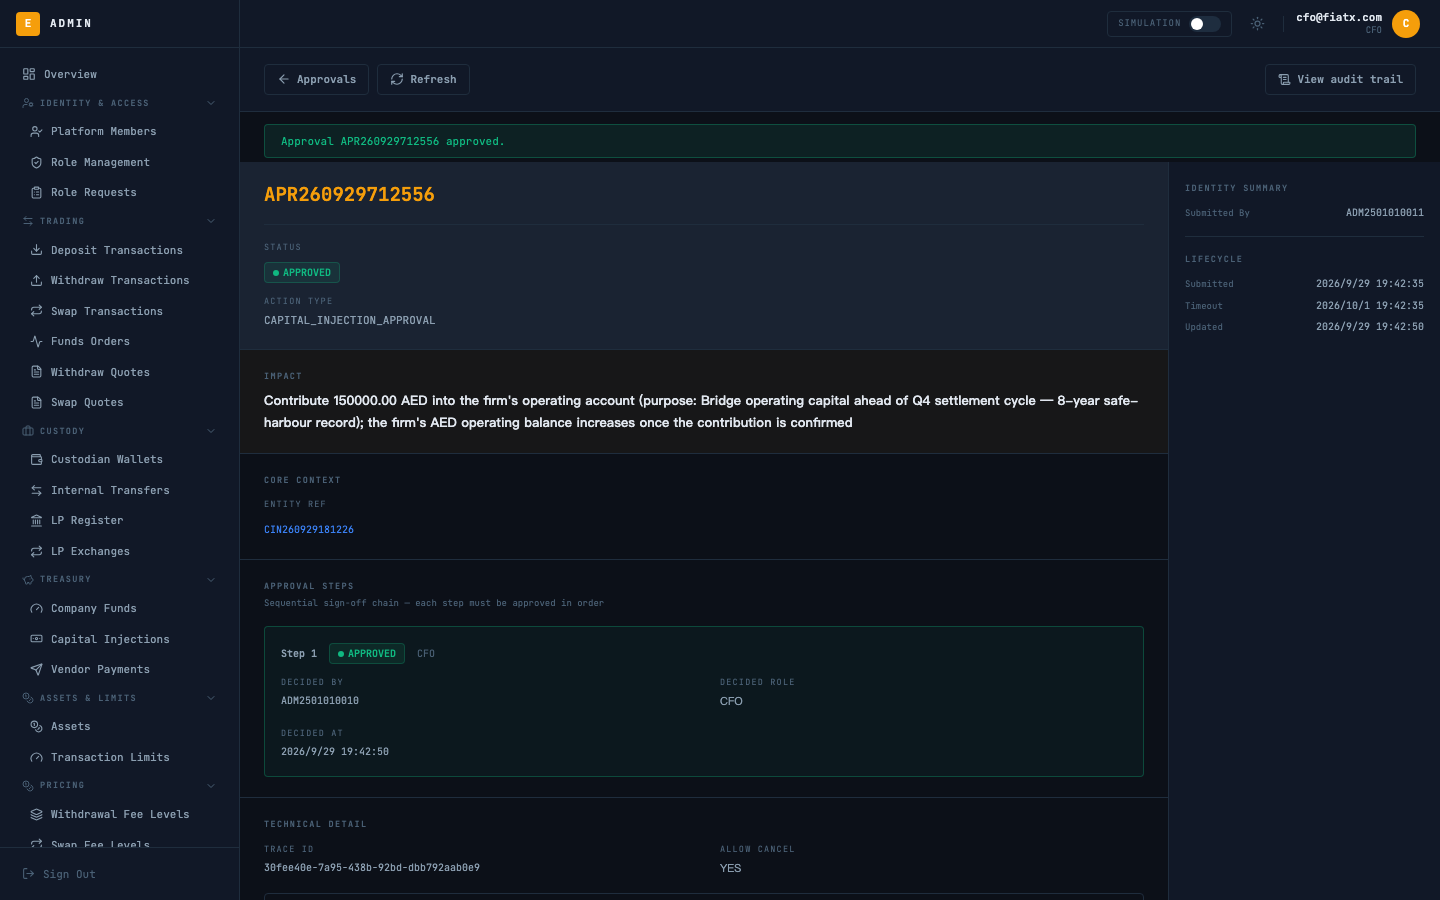
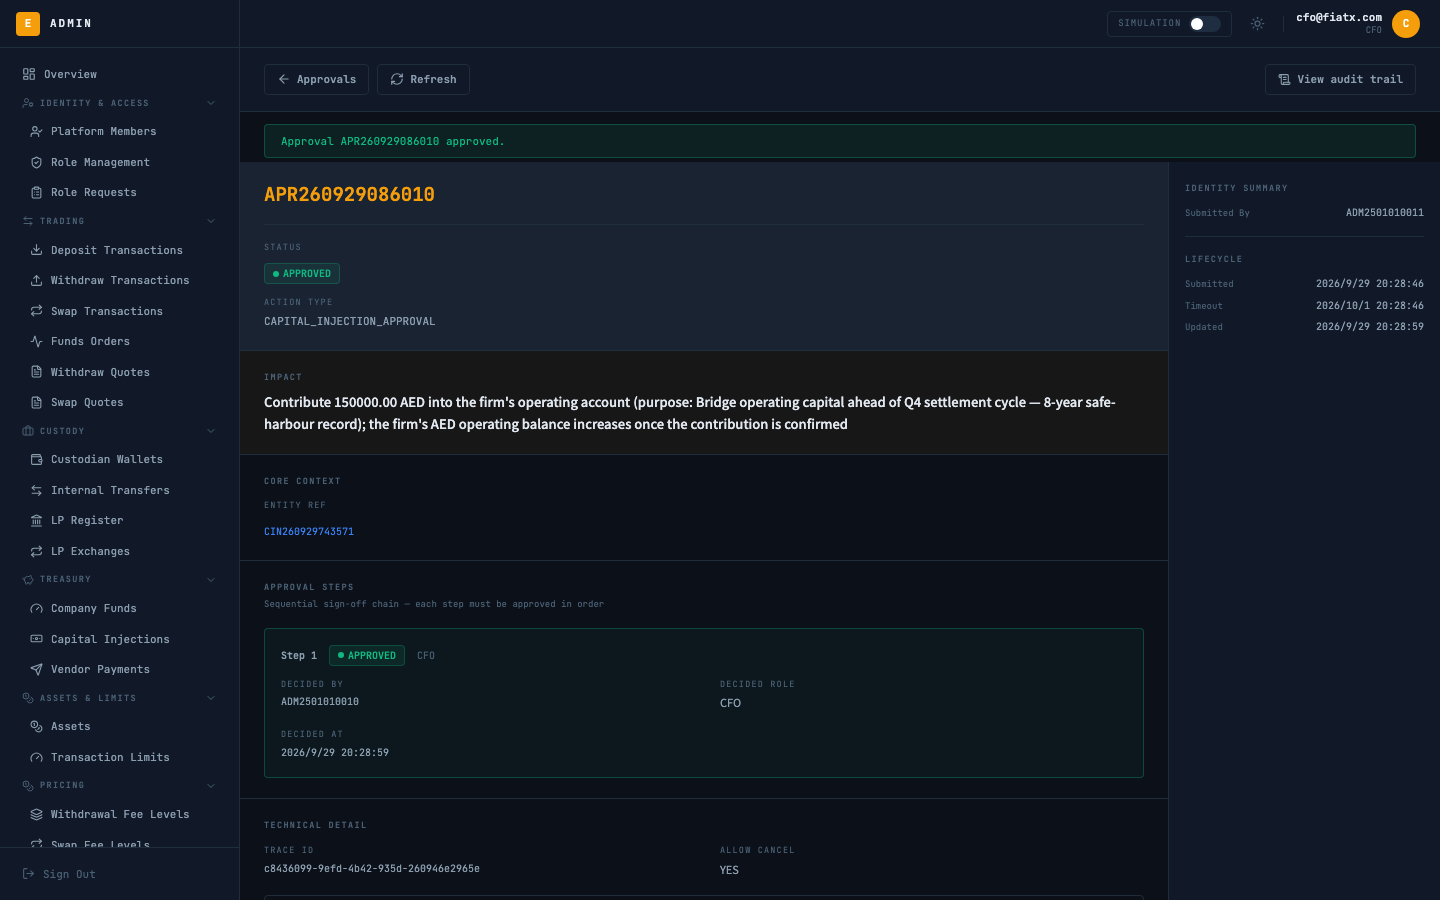
fix(乙波二T11修): 干净重走场景28-30替换污染帧+data生成区复正典+骨架补导航悬挂项——评审Imp#1
评审逮到：截图29混入练手注资单(Meridian 300,000 AED)，下游33/36/39/42帧F_OPS全是
污染值(1,247,500→1,397,500→1,394,300)，与script.md写的干净推导值(947,500→
1,097,500→1,094,300)对不上却都标"实测取自T11走查"；data.md生成区同一次污染会话
覆盖(FIRM(AED) 139,300,335含Meridian)。

修复：reset self（零练手操作）→ 严格按剧本28→29重走，Sequoia 150,000注资+
HexTrust 3,200付款，19张截图29~47全部重拍，帧内数字与script.md逐位核对（对照表
十项全对，含可复算链路947,500→1,097,500→1,094,300→[demo:all −1,410.65]→
[现场兑换 −1,090.73]→1,091,798.62）；收尾另跑一次干净reset→demo:all（不走场景）
让data.md生成区自写，git hash-object核实与0fb54740逐字节相同。

script.md场景28开头补前置声明（28/29在reset后demo:all前的种子态上走）；波三骨架
悬挂项补"导航组归并"一条（LP两页在Custody、公司资金族在Treasury，归并与否留收官
定）。self栈已down。

diff --git a/doc-final/demo/script.md b/doc-final/demo/script.md
@@ -446,7 +446,7 @@
 
 ## 场景 28（暂编）· 公司开张的钱从哪来：注资单全弧（V7 财资 · 公司资金）
 
-> 战役乙波二交付（2026-09-29）——幕次归属留战役乙收官统一定稿，本节先把走查步骤钉住。主篇文档 `modules/company-funds.md`。本场景 2026-09-29 T11 在 self 栈全程实走一遍（真提交/真点击，非种子摆拍），截图 `29`~`36`。
+> 战役乙波二交付（2026-09-29）——幕次归属留战役乙收官统一定稿，本节先把走查步骤钉住。主篇文档 `modules/company-funds.md`。本场景 2026-09-29 T11 在 self 栈全程实走一遍（真提交/真点击，非种子摆拍），截图 `29`~`36`。**本场景与场景 29 在全新 `reset` 后、`demo:all` 之前的种子态上走**（先 28 后 29，中间不夹带其他开单动作）——场景 30 的「造数」才轮到 `demo:all`，30 之前 28/29 的 F_OPS 数字才精确可复现。
 
 **讲什么**：种子资本注入原型（码 70，DR FIRM_ASSET / CR FIRM_OPS）只是开张时铺好的账，注资单把它做成一张能反复开的运行时单据——金库填出资方、币种金额、审慎管理目的，CFO 单步批，等出资方把钱打进运营户，金库核对「应到 vs 实到」后确认入账，运营户余额才真的涨。确认前后是两个不同的时点，看板 F_OPS 格子在这两个时点之间不动——先批不等于钱到，钱到不等于账落。
 
@@ -504,7 +504,7 @@
 ③ 切 `compliance_lead@` → Swap Transactions 该单详情 → 下拉到「⚡ Simulation」区 →「① Approved」→ 单转 `PROCESSING · SELL`（等卖出腿清算）。
 ④ 卖出腿（USDT）资金单 ⚡ Broadcast → ⚡ Seen in Mempool → ⚡ Confirm；买入腿（AED）资金单 ⚡ Submit → ⚡ Settle；费腿（AED，收款方 F_FEE）⚡ Submit → ⚡ Settle——三腿逐一推进后单转 `SUCCESS`。
 ⑤ **三收入格前后对照帧**：推腿前后各切一次看板，Trading Fee Income AED 格从 20.00 涨到 30.00（涨幅精确等于本笔兑换手续费 10.00 AED）——利润体现的正戏当场演给观众看。
-⑥ **同源同值收尾核对**：切 Ledger Accounts 页，Owner 筛 SYSTEM →「Company Operating Funds – AED」余额与看板运营户 AED 格逐位一致（判据是两页相等，不是某个固定数——具体数值随当次重铺后场景 28/29 的实际走法变化；2026-09-29 T11 那次实测样例为两处均 1,391,798.62 AED）；「Trading/Withdrawal/Other Service Income – AED」三行与看板三收入格 AED 三格逐位一致（同一逻辑，T11 实测样例 30.00 / 52.00 / 42.00，其中三收入格不受注资/付款单据影响，凡重铺后只做过场景 28/29/30 全弧、未额外多开单，此三数可复现）——讲词收在"刚才看板上跳的那一格，账本页查一下，是同一个数字，不是看板另算的"。USDT 侧因既有 `LedgerAccountList` 小数位显示错（`code≠currency` 资产键不一致，`BACKLOG.md` §M 已登记更深根因），走查现场能看见新旧两页数字不一致（看板 8.000000 USDT vs 老账本页 80,000.00），讲词收在"看板这张新页已经修了这个换算坑，旧的账本科目页还没排到"，不是本波复发。
+⑥ **同源同值收尾核对**：切 Ledger Accounts 页，Owner 筛 SYSTEM →「Company Operating Funds – AED」余额与看板运营户 AED 格逐位一致（判据是两页相等，不是某个固定数——具体数值随当次重铺后场景 28/29 的实际走法变化；2026-09-29 T11 干净重走一遍，从 reset 后一路只做场景 28→29→30、零练手单据，实测样例为两处均 1,091,798.62 AED，恰等于场景 29 收尾的 1,094,300.00 经 `demo:all`（−1,410.65）与本笔现场兑换（−1,090.73）两次真实扣减后的结果，链路可复算）；「Trading/Withdrawal/Other Service Income – AED」三行与看板三收入格 AED 三格逐位一致（同一逻辑，T11 实测样例 30.00 / 52.00 / 42.00，其中三收入格不受注资/付款单据影响，凡重铺后只做过场景 28/29/30 全弧、未额外多开单，此三数可复现）——讲词收在"刚才看板上跳的那一格，账本页查一下，是同一个数字，不是看板另算的"。USDT 侧因既有 `LedgerAccountList` 小数位显示错（`code≠currency` 资产键不一致，`BACKLOG.md` §M 已登记更深根因），走查现场能看见新旧两页数字不一致（看板 8.000000 USDT vs 老账本页 80,000.00），讲词收在"看板这张新页已经修了这个换算坑，旧的账本科目页还没排到"，不是本波复发。
 
 **判据**：看板五区数字与账本三列表 AED 侧逐位同源同值；USDT 侧继承既有显示缺口（非本波复发，已有 BACKLOG 记录）；三收入格随现场客户兑换实时上涨，涨幅等于该笔手续费。
 

diff --git a/doc-final/superpowers/specs/2026-09-29-campaign-b-wave3-skeleton.md b/doc-final/superpowers/specs/2026-09-29-campaign-b-wave3-skeleton.md
@@ -19,7 +19,7 @@
   - 场景 28（注资全弧）/ 29（付款全弧）/ 30（看板五区巡览 + 账本三列表同源同值 + 现场客户兑换看三收入格实时涨，暂编）已在 self 栈全程实走，截图入 `doc-final/superpowers/checkups/2026-09-29-campaign-b-wave2-funding-evidence/`（`29`~`47`）；幕次归属（独立成第九幕或并入既有幕）留战役乙收官统一定稿。
   - **走查发现一处新账（未修，登 `BACKLOG.md` §E）**：兑换单资金单腿在管理台没有任何非超管角色能完整推完——前端「⚡ Simulation」面板统一按 `FUNDS_ORDER_PUSH_WRITE`（`FUNDS_ORDER_ACT` 组）门控可见性，但兑换单腿的真实推进端点 `POST /admin/swap-transactions/:swapNo/legs/:legSeq/advance` 挂的是完全不同的组 `TRADING_SWAP_WRITE`；`TREASURY_OFFICER` 持前者不持后者（面板可见、点了 403），`OPS_OFFICER` 持后者不持前者（面板本身不出现），两组交集为空。此条与波三看板无直接依赖，但若波三剧本涉及"客户兑换消耗库存"类走查步骤，会撞上同一个坑，业主定谁来补齐（金库补 `TRADING_SWAP_WRITE` 还是运营补 `FUNDS_ORDER_ACT`）后再走场景。
 - **偏差**：spec §0 尾注「无主资金销账口径已对齐——不建，结构上不会产生」——本波（T2-T11）未涉及无主资金分支，原样承袭，留波三收官统一措辞落 §4 销账表。`decisions.md` 本波（T1-T11）全程未落笔（Plan Step 3 明示口径「本波不动，收官统一落」），留给波三收尾一并写入（含 LP 三拍板、⑰甲案、B1/B2 两分、F_LIQ 复活翻案，共波一波二两批，见总纲 §7 第 5 条）。
-- **悬挂项**：波一自身两条演示缺口（`LedgerAccountList` decimals 显示错 / LP 档案变更在途详情页无持久提示）已登 `BACKLOG.md` §M，均非波三前置阻塞项；波二新增一条 §M（decimals 显示错更深根因）+ 一条 §E（兑换单资金单腿推不动），同样非波三前置阻塞项，但 §E 那条若波三剧本要演"客户兑换"环节会现场撞上，需提前决定绕行方案（超管代推，还是先补权限）。
+- **悬挂项**：波一自身两条演示缺口（`LedgerAccountList` decimals 显示错 / LP 档案变更在途详情页无持久提示）已登 `BACKLOG.md` §M，均非波三前置阻塞项；波二新增一条 §M（decimals 显示错更深根因）+ 一条 §E（兑换单资金单腿推不动），同样非波三前置阻塞项，但 §E 那条若波三剧本要演"客户兑换"环节会现场撞上，需提前决定绕行方案（超管代推，还是先补权限）。**导航组归并**：LP 两页（LP Register / LP Exchanges）现挂 Custody 导航组，公司资金族三页（Company Funds / Capital Injections / Vendor Payments）现挂 Treasury 导航组——两族同属 V7 财资域却分落两个导航组，归并与否（例如都并入 Treasury，或新开一个"财资"导航组）留战役收官统一定，不在波三 spec 里顺手改（改导航分组属侧栏信息架构决策，跨战役影响面，派发点名必含项）。
 
 ## 已定事实（波三可直接假设成立、不必重查）
 

diff --git a/doc-final/demo/data.md b/doc-final/demo/data.md
@@ -266,7 +266,7 @@ Falcon 建档写一条 `LP_PROFILE_CREATED` 审计（`actionDomain=TREASURY`，`
 | 恒等式 | 结果 |
 |---|---|
 | COA CLIENT(AED): CLIENT_ASSET == Σ(CLIENT_PAYABLE+DEPOSIT_SUSPENSE) | ✓ 29612565 == 29612565 |
-| COA FIRM(AED): FIRM_ASSET == Σ(FIRM_OPS+FIRM_SET+FIRM_LIQ+INCOME_SWAP_FEE+INCOME_WITHDRAW_FEE+INCOME_OTHER) | ✓ 139300335 == 139300335 |
+| COA FIRM(AED): FIRM_ASSET == Σ(FIRM_OPS+FIRM_SET+FIRM_LIQ+INCOME_SWAP_FEE+INCOME_WITHDRAW_FEE+INCOME_OTHER) | ✓ 94620335 == 94620335 |
 | COA CLIENT(USDT): CLIENT_ASSET == Σ(CLIENT_PAYABLE+DEPOSIT_SUSPENSE) | ✓ 4392571811 == 4392571811 |
 | COA FIRM(USDT): FIRM_ASSET == Σ(FIRM_OPS+FIRM_SET+FIRM_LIQ+INCOME_SWAP_FEE+INCOME_WITHDRAW_FEE+INCOME_OTHER) | ✓ 114013428189 == 114013428189 |
 <!-- GENERATED:END -->
